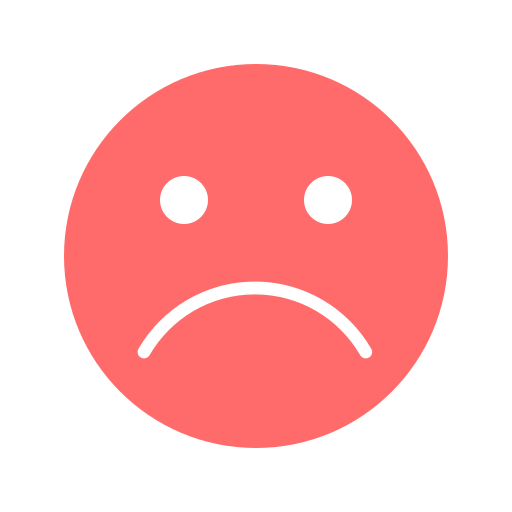
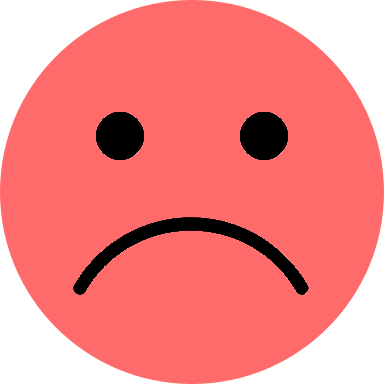
add smileys

diff --git a/app/javascript/components/total_click.js b/app/javascript/components/total_click.js
@@ -15,8 +15,16 @@ const totalClick = () => {
       totalTd.innerText = total
       const dislikeStats = Math.round((dislike / total)*100)
       const likeStats = Math.round((like / total)*100)
-      dislikeStatTd.innerText = `${dislikeStats}%`
-      likeStatTd.innerText = `${likeStats}%`
+      if (dislikeStats) {
+        dislikeStatTd.innerText = `${dislikeStats}%`
+      } else {
+        dislikeStatTd.innerText = `0%`
+      }
+      if (likeStats) {
+        likeStatTd.innerText = `${likeStats}%`
+      } else {
+        likeStatTd.innerText = `0%`
+      }
       const totalContainer = document.querySelector('.total-container')
       totalContainer.style.display = 'flex';
     })

diff --git a/app/assets/stylesheets/pages/_home.scss b/app/assets/stylesheets/pages/_home.scss
@@ -11,3 +11,14 @@
   display: flex;
   justify-content: space-around;
 }
+
+.smiley {
+  box-shadow: 4px 4px 20px rgba(0, 0, 0, 0.4);
+  border-radius: 50%;
+  height: 100%;
+  img {
+    height: 100%;
+    width: 100%;
+    object-fit: cover;
+  }
+}

diff --git a/app/assets/stylesheets/components/_thanks_modal.scss b/app/assets/stylesheets/components/_thanks_modal.scss
@@ -19,7 +19,8 @@
   text-align: center;
   align-items: center;
   h5 {
-    font-weight: 600;
-    font-size: 2rem;
+    font-weight: 400;
+    font-size: 3rem;
+    font-family: 'Montserrat', sans-serif;
   }
 }

diff --git a/app/assets/stylesheets/components/_navbar.scss b/app/assets/stylesheets/components/_navbar.scss
@@ -1,6 +1,6 @@
 .navbar-lewagon {
   justify-content: space-between;
-  background: $light-gray;
+  background: white;
 }
 
 .navbar-lewagon .navbar-collapse {
